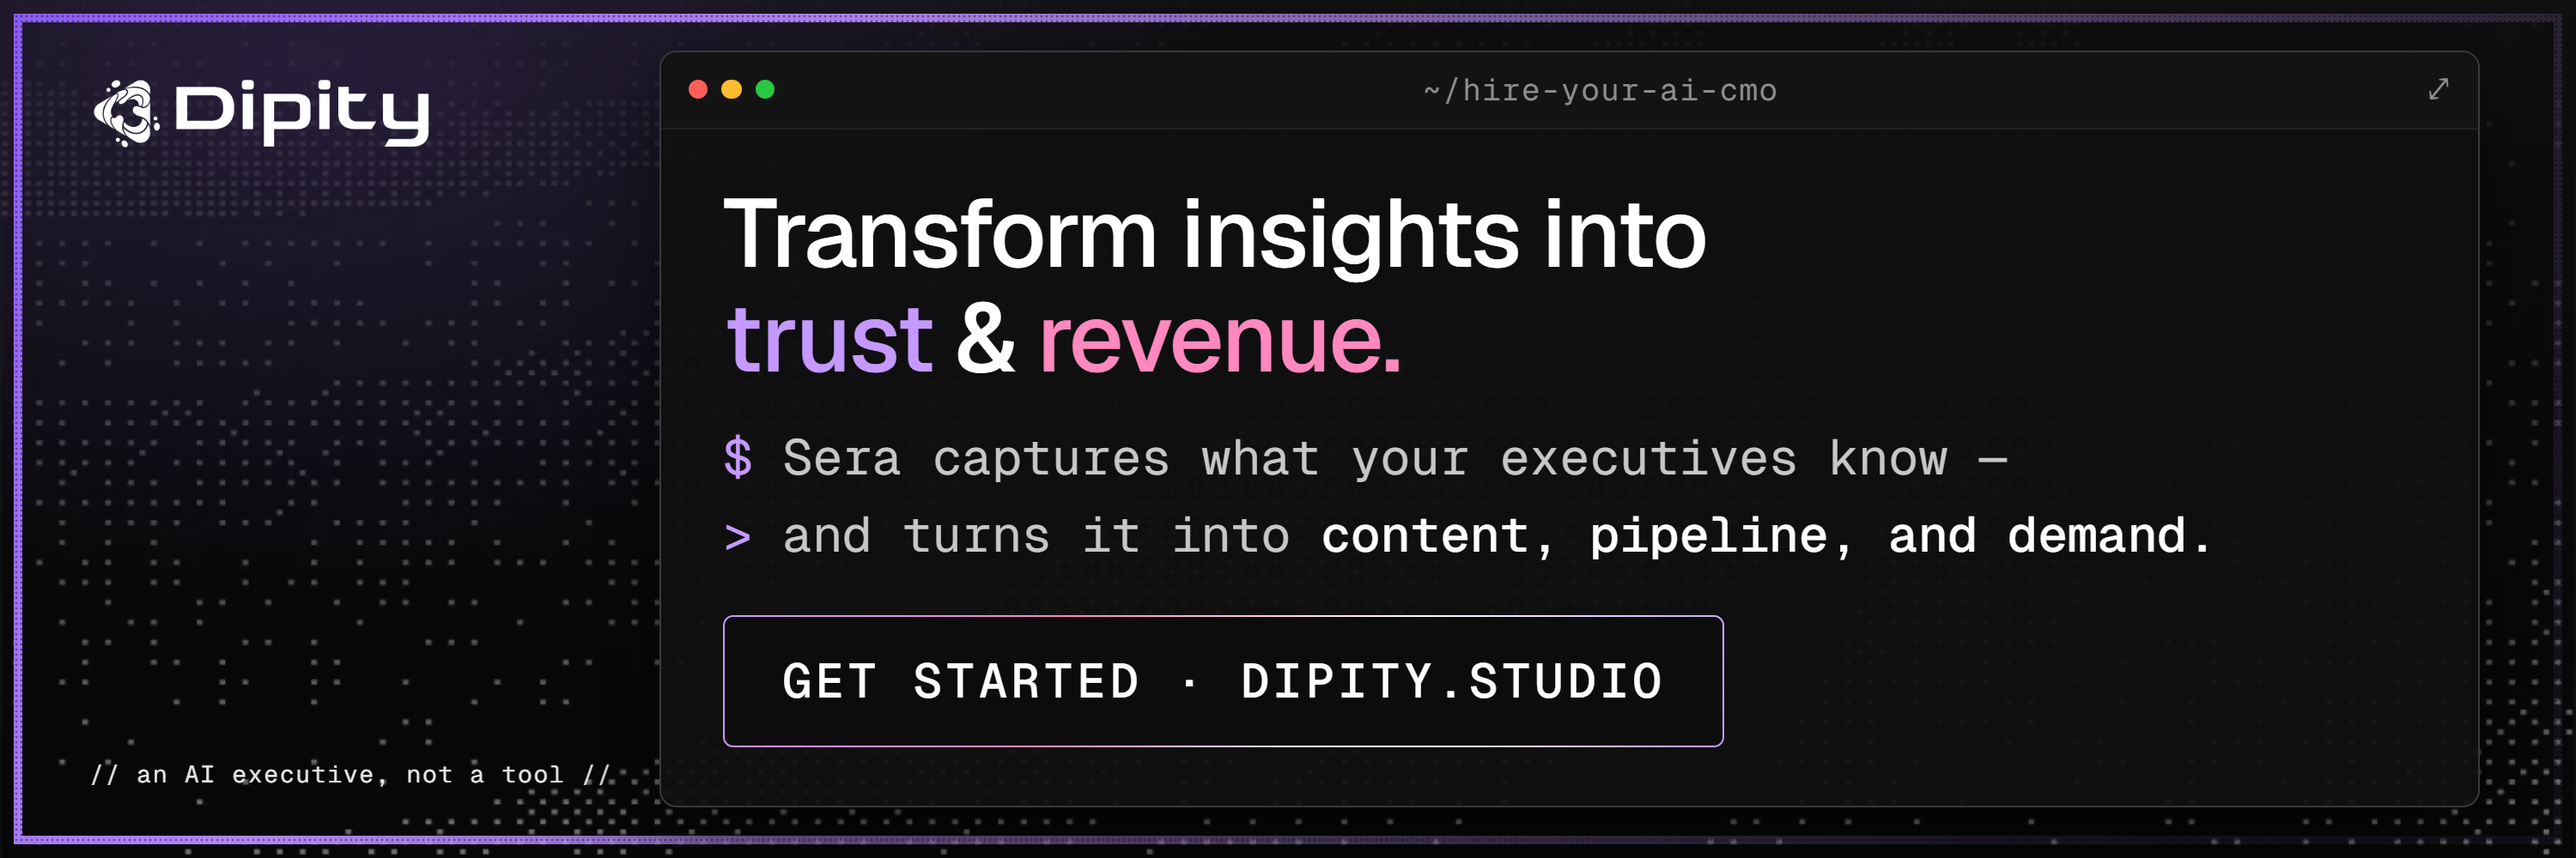
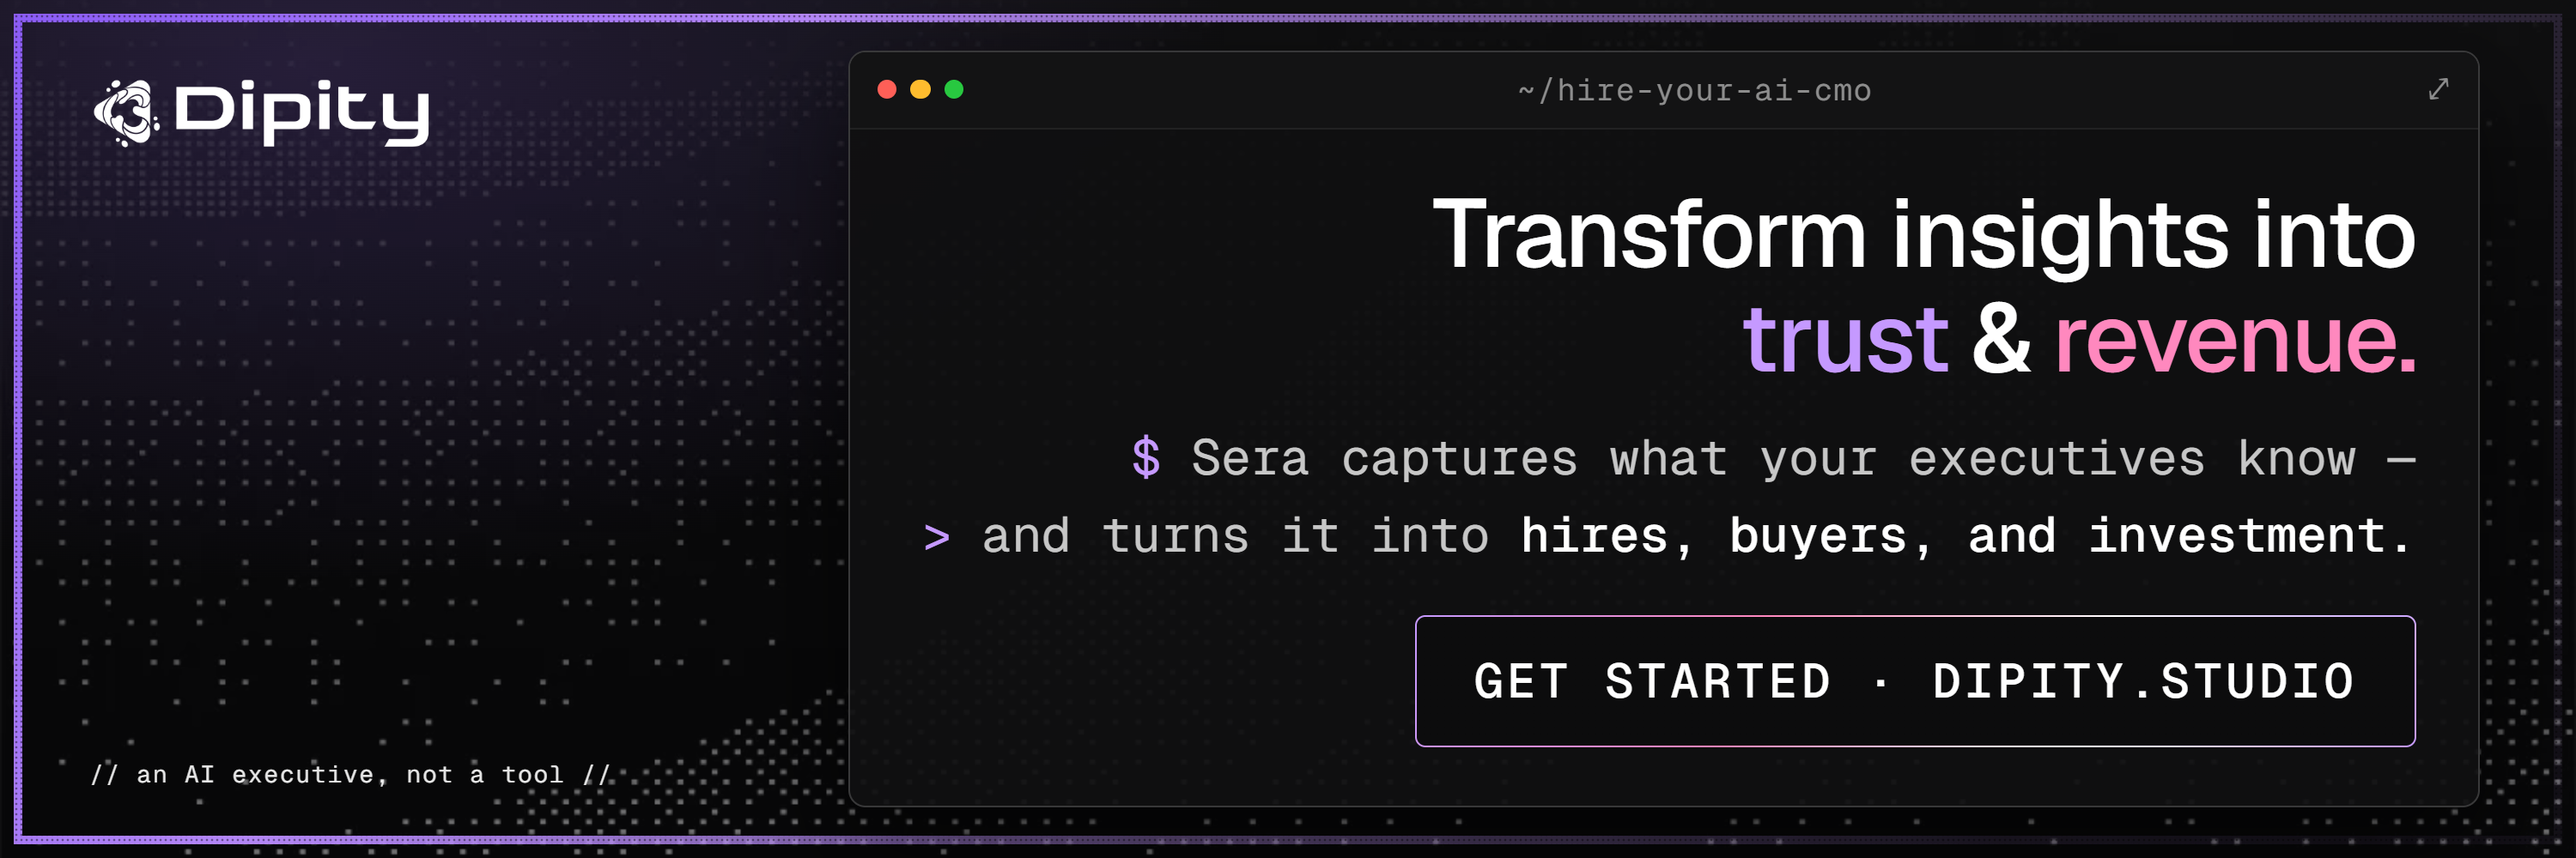
X + LI personal: right-align panel copy, thinner panels, 'hires, buyers, and investment' wording

diff --git a/banners/banners.html b/banners/banners.html
@@ -38,6 +38,7 @@ body{background:#333;font-family:'Geist',sans-serif;-webkit-font-smoothing:antia
 .pbar span{margin:0 auto;font-family:'Geist Mono',monospace;color:var(--mid);letter-spacing:.04em}
 .pbar b{font-weight:400;color:var(--mid);font-family:'Geist Mono',monospace}
 .pbody h1{font-weight:500;line-height:1.1;letter-spacing:-.02em}
+#x .pbody,#li-personal .pbody{text-align:right}
 .pbody h1 .acc{color:var(--accent)}
 .pbody h1 .pk{color:var(--pink)}
 .pbody .sub{font-family:'Geist Mono',monospace;color:var(--soft);line-height:1.55}
@@ -49,7 +50,7 @@ body{background:#333;font-family:'Geist',sans-serif;-webkit-font-smoothing:antia
 #x{width:1500px;height:500px}
 #x .logo{top:44px;left:52px;height:44px}
 #x .marg{bottom:40px;left:52px;font-size:14px;opacity:.9}
-#x .panel{top:50%;transform:translateY(-50%);right:56px;width:1060px;font-size:18px}
+#x .panel{top:50%;transform:translateY(-50%);right:56px;width:950px;font-size:18px}
 #x .pbody{padding:30px 36px 34px}
 #x .pbody h1{font-size:56px}
 #x .pbody .sub{font-size:29px;margin-top:16px}
@@ -59,7 +60,7 @@ body{background:#333;font-family:'Geist',sans-serif;-webkit-font-smoothing:antia
 #li-personal{width:1584px;height:396px}
 #li-personal .logo{top:36px;left:48px;height:38px}
 #li-personal .marg{bottom:30px;left:470px;font-size:12px;opacity:.85}
-#li-personal .panel{top:50%;transform:translateY(-50%);right:44px;width:900px;font-size:17px}
+#li-personal .panel{top:50%;transform:translateY(-50%);right:44px;width:730px;font-size:17px}
 #li-personal .pbody{padding:20px 30px 24px}
 #li-personal .pbody h1{font-size:46px}
 #li-personal .pbody .sub{font-size:27px;margin-top:12px}
@@ -87,7 +88,7 @@ body{background:#333;font-family:'Geist',sans-serif;-webkit-font-smoothing:antia
     <div class="pbar"><i></i><i></i><i></i><span>~/hire-your-ai-cmo</span><b>⤢</b></div>
     <div class="pbody">
       <h1>Transform insights into<br><span class="acc">trust</span> &amp; <span class="pk">revenue.</span></h1>
-      <div class="sub"><span class="d">$</span> Sera captures what your executives know —<br><span class="d">&gt;</span> and turns it into <b>content, pipeline, and demand.</b></div>
+      <div class="sub"><span class="d">$</span> Sera captures what your executives know —<br><span class="d">&gt;</span> and turns it into <b>hires, buyers, and investment.</b></div>
       <span class="cta">Get started · dipity.studio</span>
     </div>
   </div>
@@ -101,7 +102,7 @@ body{background:#333;font-family:'Geist',sans-serif;-webkit-font-smoothing:antia
     <div class="pbar"><i></i><i></i><i></i><span>~/hire-your-ai-cmo</span><b>⤢</b></div>
     <div class="pbody">
       <h1>Transform insights<br>into <span class="acc">trust</span> &amp; <span class="pk">revenue.</span></h1>
-      <div class="sub"><span class="d">$</span> Sera turns what your executives know into<br><span class="d">&gt;</span> <b>content, pipeline, and demand.</b></div>
+      <div class="sub"><span class="d">$</span> Sera turns what your executives know<br><span class="d">&gt;</span> into <b>hires, buyers, and investment.</b></div>
       <span class="cta">Get started · dipity.studio</span>
     </div>
   </div>
